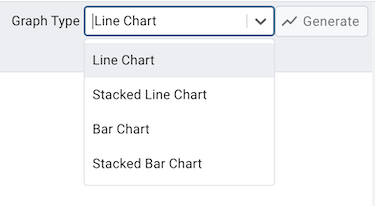
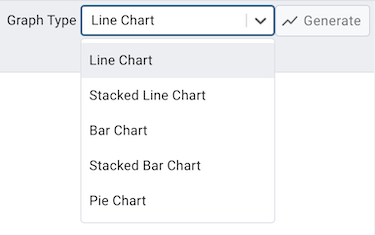
Added support for visualise the graph using a Pie chart in the query tool. Fixes #7487

diff --git a/web/pgadmin/tools/sqleditor/static/js/components/sections/GraphVisualiser.jsx b/web/pgadmin/tools/sqleditor/static/js/components/sections/GraphVisualiser.jsx
@@ -20,7 +20,7 @@ import ZoomOutMapIcon from '@material-ui/icons/ZoomOutMap';
 import SaveAltIcon from '@material-ui/icons/SaveAlt';
 import { InputSelect } from '../../../../../../static/js/components/FormComponents';
 import { DefaultButton, PgButtonGroup, PgIconButton} from '../../../../../../static/js/components/Buttons';
-import { LineChart, BarChart, DATA_POINT_STYLE, DATA_POINT_SIZE,
+import { LineChart, BarChart, PieChart, DATA_POINT_STYLE, DATA_POINT_SIZE,
   CHART_THEME_COLORS, CHART_THEME_COLORS_LENGTH, ConvertHexToRGBA} from 'sources/chartjs';
 import { QueryToolEventsContext, QueryToolContext } from '../QueryToolComponent';
 import { QUERY_TOOL_EVENTS, PANELS } from '../QueryToolConstants';
@@ -136,7 +136,10 @@ function GenerateGraph({graphType, graphData, ...props}) {
   } else if (graphType == 'B' || graphType == 'SB') {
     return <BarChart options={defaultOptions} data={graphData} stacked={graphType == 'SB'}
       {...props}/>;
-  } else {
+  } else if (graphType == 'P') {
+    return <PieChart data={graphData} {...props}/>;
+  }
+  else {
     return null;
   }
 }
@@ -145,7 +148,47 @@ GenerateGraph.propTypes = {
   graphData: PropTypes.object,
 };
 
-// This function is used to get the data set for the X axis and Y axis
+// This function is used to get the dataset for Line Chart and Stacked Line Chart.
+function getLineChartData(graphType, rows, colName, colPosition, color, colorIndex, styleIndex, queryToolCtx) {
+  return {
+    label: colName,
+    data: rows.map((r)=>r[colPosition]),
+    backgroundColor: graphType == 'SL' ? ConvertHexToRGBA(color, 30) : color,
+    borderColor:color,
+    pointHitRadius: DATA_POINT_SIZE,
+    pointHoverRadius: 5,
+    pointStyle: queryToolCtx.preferences.graphs['use_diff_point_style'] ? DATA_POINT_STYLE[styleIndex] : 'circle',
+    fill: graphType == 'L' ? false : 'origin',
+  };
+}
+
+// This function is used to get the dataset for Bar Chart and Stacked Bar Chart.
+function getBarChartData(rows, colName, colPosition, color) {
+  return {
+    label: colName,
+    data: rows.map((r)=>r[colPosition]),
+    backgroundColor: color,
+    borderColor:color
+  };
+}
+
+// This function is used to get the dataset for Pie Chart.
+function getPieChartData(rows, colName, colPosition, queryToolCtx) {
+  let rowCount = -1;
+  return {
+    label: colName,
+    data: rows.map((r)=>r[colPosition]),
+    backgroundColor: rows.map(()=> {
+      if (rowCount >= (CHART_THEME_COLORS_LENGTH - 1)) {
+        rowCount = -1;
+      }
+      rowCount = rowCount + 1;
+      return CHART_THEME_COLORS[queryToolCtx.preferences.misc.theme][rowCount];
+    }),
+  };
+}
+
+// This function is used to get the graph data set for the X axis and Y axis
 function getGraphDataSet(graphType, rows, columns, xaxis, yaxis, queryToolCtx) {
   // Function is used to the find the position of the column
   function getColumnPosition(colName) {
@@ -180,25 +223,14 @@ function getGraphDataSet(graphType, rows, columns, xaxis, yaxis, queryToolCtx) {
       }
       styleIndex = styleIndex + 1;
 
-      if (graphType !== 'L' && graphType !== 'SL') {
-        return {
-          label: colName,
-          data: rows.map((r)=>r[colPosition]),
-          backgroundColor: color,
-          borderColor:color
-        };
+      if (graphType === 'P') {
+        return getPieChartData(rows, colName, colPosition, queryToolCtx);
+      } else if (graphType === 'B' || graphType === 'SB') {
+        return getBarChartData(rows, colName, colPosition, color);
+      } else if (graphType === 'L' || graphType === 'SL') {
+        return getLineChartData(graphType, rows, colName, colPosition, color,
+          colorIndex, styleIndex, queryToolCtx);
       }
-
-      return {
-        label: colName,
-        data: rows.map((r)=>r[colPosition]),
-        backgroundColor: graphType == 'SL' ? ConvertHexToRGBA(color, 30) : color,
-        borderColor:color,
-        pointHitRadius: DATA_POINT_SIZE,
-        pointHoverRadius: 5,
-        pointStyle: queryToolCtx.preferences.graphs['use_diff_point_style'] ? DATA_POINT_STYLE[styleIndex] : 'circle',
-        fill: graphType == 'L' ? false : 'origin',
-      };
     }),
   };
 }
@@ -253,7 +285,7 @@ export function GraphVisualiser({initColumns}) {
       clearTimeout(timeoutId);
       if(LayoutHelper.isTabVisible(queryToolCtx.docker, PANELS.GRAPH_VISUALISER)) {
         timeoutId = setTimeout(function () {
-          setGraphHeight(contentRef.current.offsetHeight);
+          setGraphHeight(contentRef.current.offsetHeight - 8);
         }, 300);
       }
     });
@@ -271,6 +303,13 @@ export function GraphVisualiser({initColumns}) {
       eventBus.deregisterListener(QUERY_TOOL_EVENTS.RESET_GRAPH_VISUALISER, resetGraphVisualiser);
     };
   }, []);
+
+  // Reset the Y axis if graph type is Pie Chart.
+  useEffect(()=>{
+    if (graphType === 'P') {
+      setYAxis('');
+    }
+  }, [graphType]);
 
   // Generate button callback
   const onGenerate = async ()=>{
@@ -290,7 +329,7 @@ export function GraphVisualiser({initColumns}) {
     setLoaderText(gettext('Rendering data points...'));
     // Set the Graph Data
     setGraphData(
-      (prev)=> [getGraphDataSet(graphType, res.data.data.result, columns, xaxis, yaxis, queryToolCtx), prev[1] + 1]
+      (prev)=> [getGraphDataSet(graphType, res.data.data.result, columns, xaxis, _.isArray(yaxis) ? yaxis : [yaxis] , queryToolCtx), prev[1] + 1]
     );
 
     setLoaderText('');
@@ -328,7 +367,7 @@ export function GraphVisualiser({initColumns}) {
       <Box className={classes.topContainer}>
         <Box className={classes.displayFlex}>
           <Box className={classes.displayFlex}>
-            <span className={classes.spanLabel}>{gettext('X Axis')}</span>
+            <span className={classes.spanLabel}>{graphType != 'P' ? gettext('X Axis') : gettext('Label')}</span>
             <InputSelect className={classes.selectCtrl} options={xAxisOptions}
               onChange={(v)=>setXAxis(v)} value={xaxis} optionsReloadBasis={optionsReload}/>
           </Box>
@@ -340,6 +379,7 @@ export function GraphVisualiser({initColumns}) {
                 {label: gettext('Stacked Line Chart'), value: 'SL'},
                 {label: gettext('Bar Chart'), value: 'B'},
                 {label: gettext('Stacked Bar Chart'), value: 'SB'},
+                {label: gettext('Pie Chart'), value: 'P'},
               ]} onChange={(v)=>setGraphType(v)} value={graphType} />
           </Box>
           <DefaultButton onClick={onGenerate} startIcon={<ShowChartRoundedIcon />}
@@ -348,8 +388,8 @@ export function GraphVisualiser({initColumns}) {
           </DefaultButton>
         </Box>
         <Box className={classes.displayFlex}>
-          <span className={classes.spanLabel}>{gettext('Y Axis')}</span>
-          <InputSelect className={classes.selectCtrl} controlProps={{'multiple': true, allowSelectAll: true}}
+          <span className={classes.spanLabel}>{graphType != 'P' ? gettext('Y Axis') : gettext('Value')}</span>
+          <InputSelect className={classes.selectCtrl} controlProps={{'multiple': graphType != 'P', allowSelectAll: graphType != 'P'}}
             options={yAxisOptions} onChange={(v)=>setYAxis(v)} value={yaxis} optionsReloadBasis={optionsReload}/>
         </Box>
       </Box>

diff --git a/web/pgadmin/static/js/chartjs/index.jsx b/web/pgadmin/static/js/chartjs/index.jsx
@@ -100,21 +100,9 @@ const defaultOptions = {
   }
 };
 
-const stackedOptions = {
-  scales: {
-    x: {
-      stacked: true,
-    },
-    y: {
-      stacked: true,
-    },
-  }
-};
-
 export default function BaseChart({type='line', id, options, data, redraw=false, plugins={}, ...props}) {
   const chartRef = React.useRef();
   const chartObj = React.useRef();
-  let optionsMerged = _.merge(defaultOptions, options);
 
   const initChart = function() {
     Chart.register(...registerables);
@@ -125,7 +113,7 @@ export default function BaseChart({type='line', id, options, data, redraw=false,
       type: type,
       data: data,
       plugins: [plugins],
-      options: optionsMerged,
+      options: options,
     });
     props.onInit && props.onInit(chartObj.current);
   };
@@ -149,7 +137,7 @@ export default function BaseChart({type='line', id, options, data, redraw=false,
           ...data.datasets[i],
         };
       }
-      chartObj.current.options = optionsMerged;
+      chartObj.current.options = options;
       chartObj.current.update(props.updateOptions || {});
       props.onUpdate && props.onUpdate(chartObj.current);
     }
@@ -179,11 +167,22 @@ BaseChart.propTypes = {
   plugins: PropTypes.object,
 };
 
+const stackedOptions = {
+  scales: {
+    x: {
+      stacked: true,
+    },
+    y: {
+      stacked: true,
+    },
+  }
+};
+
 export function LineChart({stacked, options, ...props}) {
   // if stacked true then merge the stacked specific options.
-  options = stacked ? _.merge(options, stackedOptions) : options;
+  let optionsMerged = _.merge(defaultOptions, options, stacked ? stackedOptions : {});
   return (
-    <BaseChart {...props} options={options} type='line'/>
+    <BaseChart {...props} options={optionsMerged} type='line'/>
   );
 }
 LineChart.propTypes = {
@@ -193,14 +192,28 @@ LineChart.propTypes = {
 
 export function BarChart({stacked, options, ...props}) {
   // if stacked true then merge the stacked specific options.
-  options = stacked ? _.merge(options, stackedOptions) : options;
+  let optionsMerged = _.merge(defaultOptions, options, stacked ? stackedOptions : {});
   return (
-    <BaseChart {...props} options={options} type='bar'/>
+    <BaseChart {...props} options={optionsMerged} type='bar'/>
   );
 }
 BarChart.propTypes = {
   options: PropTypes.object,
   stacked: PropTypes.bool
+};
+
+export function PieChart({options, ...props}) {
+  let optionsMerged = _.merge({
+    responsive: true,
+    maintainAspectRatio: false,
+    normalized: true
+  }, options);
+  return (
+    <BaseChart {...props} options={optionsMerged} type='pie'/>
+  );
+}
+PieChart.propTypes = {
+  options: PropTypes.object
 };
 
 export function ConvertHexToRGBA(hex, opacity) {

diff --git a/docs/en_US/query_tool.rst b/docs/en_US/query_tool.rst
@@ -331,8 +331,8 @@ Graph Visualiser Panel
 **********************
 
 Click the Graph Visualiser button in the toolbar to generate the *Graphs* of
-the query results. The graph visualiser currently supports only Line Charts,
-but more charts (Bar, Stacked Bar, Pie...) will be added soon.
+the query results. The graph visualiser supports Line Charts, Stacked Line Charts,
+Bar Charts, Stacked Bar Charts, and Pie Charts.
 
 .. image:: images/query_graph_visualiser_panel.png
     :alt: Query tool graph visualiser panel
@@ -425,6 +425,18 @@ clicking on the 'Generate' button.
 
 .. image:: images/query_stacked_bar_chart.png
     :alt: Query tool graph visualiser stacked bar chart
+    :align: center
+
+Pie Chart
+=========
+
+The *Pie Chart* can be generated by selecting the 'Pie Chart'
+from the Graph Type drop-down, selecting the Label and Value, and
+clicking on the 'Generate' button.
+
+
+.. image:: images/query_pie_chart.png
+    :alt: Query tool graph visualiser pie chart
     :align: center
 
 Connection Status

diff --git a/docs/en_US/release_notes_6_12.rst b/docs/en_US/release_notes_6_12.rst
@@ -10,6 +10,7 @@ New features
 ************
 
   | `Issue #7486 <https://redmine.postgresql.org/issues/7486>`_ -  Added support for visualizing the graphs using Stacked Line, Bar, and Stacked Bar charts in the query tool.
+  | `Issue #7487 <https://redmine.postgresql.org/issues/7487>`_ -  Added support for visualise the graph using a Pie chart in the query tool.
 
 Housekeeping
 ************
